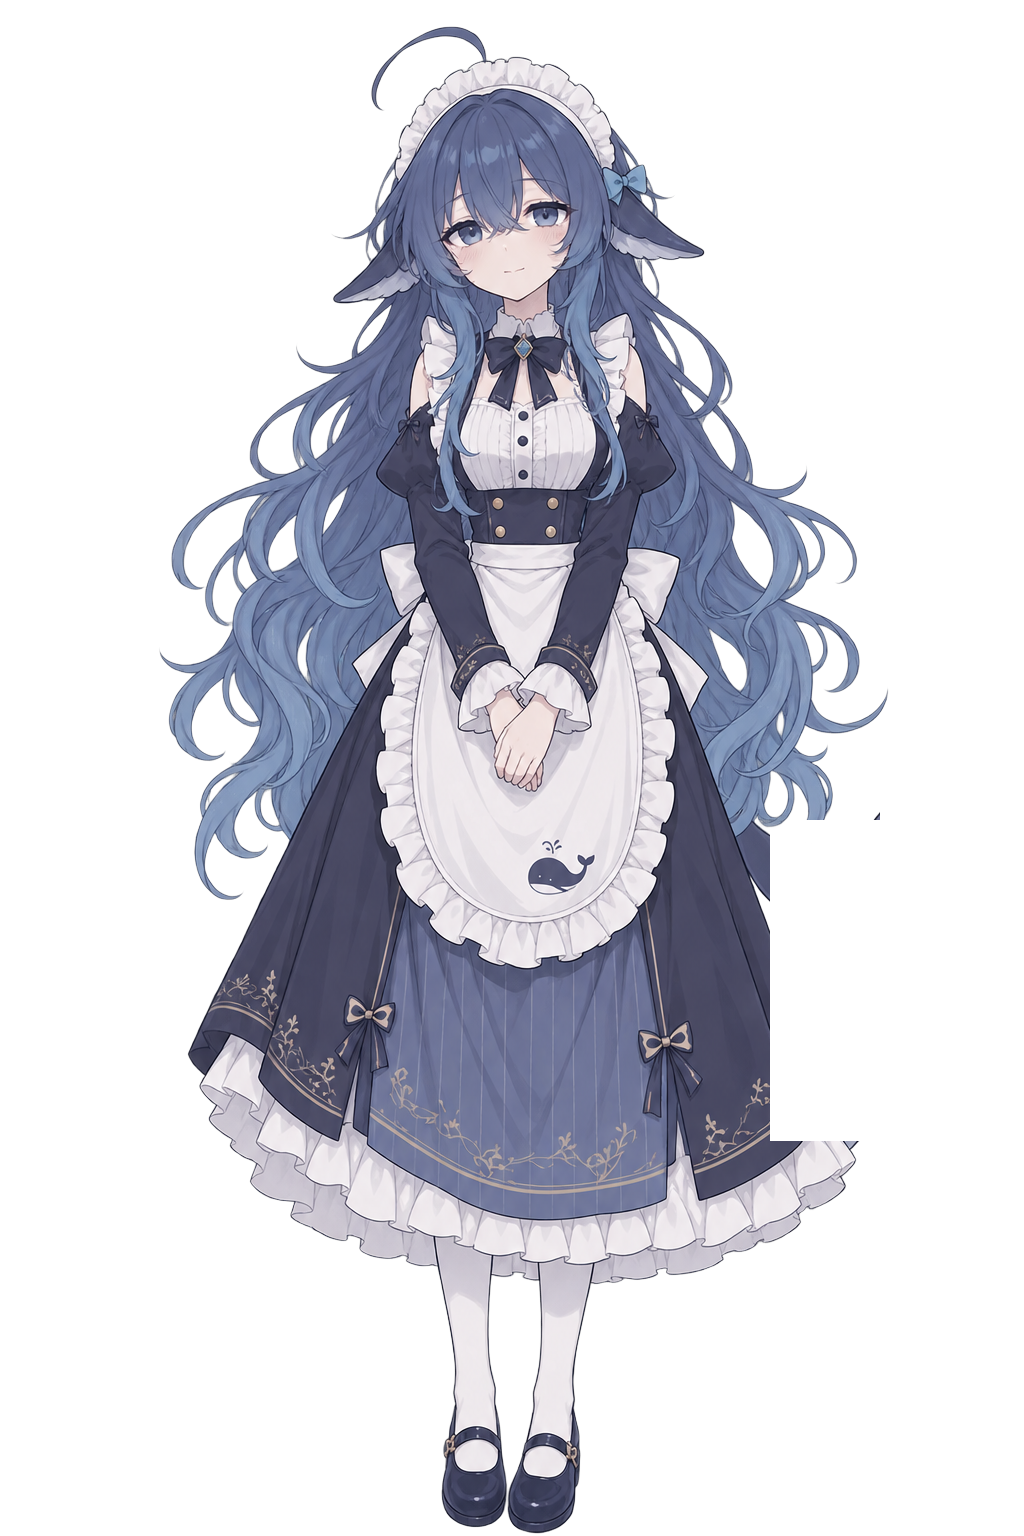
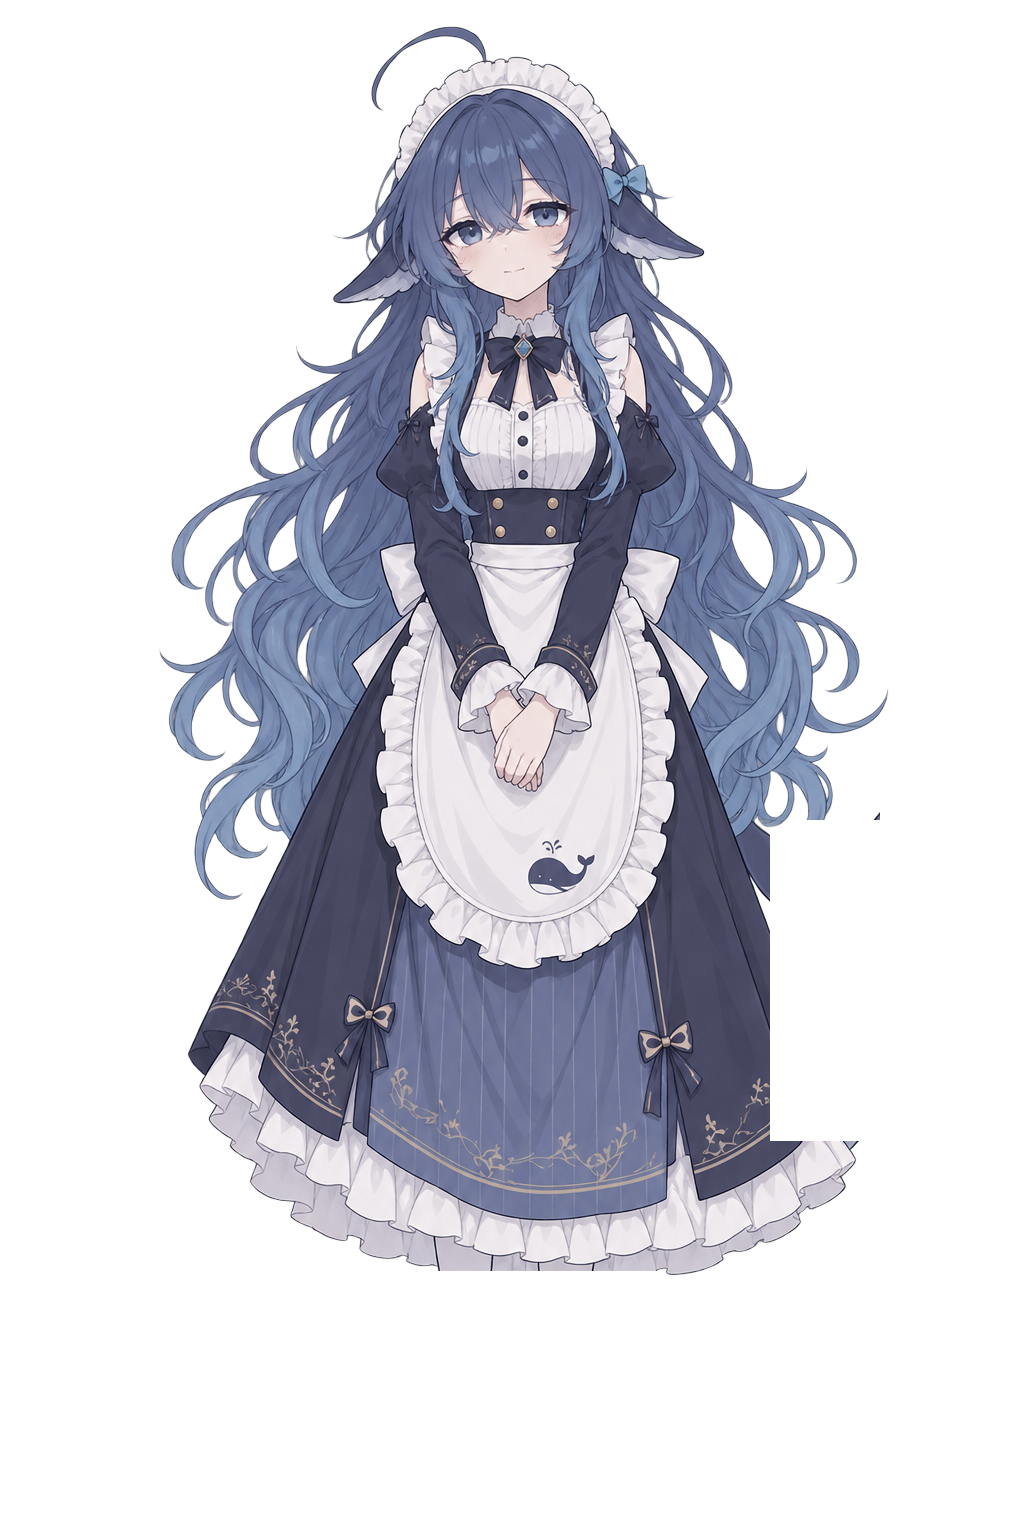
v0.14.1：paper-doll 铺量——六张 neutral 全量切腿，三阶段部件驱动步态就绪
- final/neglected + young×2 + adult×2 双腿 limb 部件（首建 young/adult rig 目录）
- 工艺坑留档：neglected 袜筒上部接触需全腿区高度非对称分墙；adult/healthy 尾尖与右腿在合并行 1127-1130 连通需墙 y<1131（探针步长跳行教训）；young/neglected 真裙摆线 1229 非 1203
- young/adult 尾巴暂缓：尾发 α 逐行粘连需复刻 v0.13 尾件多轮保护带迭代，记已知限制
- trim_part_overlap 泛化 stage 参数；probe_legs 泛化取参探针
- 门禁：五图静止合成内部失配 0.025-0.099% 全 PASS；test_v10 25 通过 0 失败（路由回归）

Changed region(s): [[0.4062, 0.8125, 0.625, 1.0]]

diff --git a/spikes/_qa/probe_sum.py b/spikes/_qa/probe_sum.py
@@ -1,0 +1,65 @@
+"""腿部拓扑汇总器——自动输出 5 张 neutral 的切件取参：
+裙摆底缘（最后一个"窗口横满"行）、双腿 x 区间（中部行）、鞋区是否 α 连通、
+腿底 y。供批量切割定 --seed/--pivot/--block。
+"""
+import os
+
+from PIL import Image
+
+REPO = os.path.dirname(os.path.dirname(os.path.dirname(os.path.abspath(__file__))))
+
+FIGS = [
+    ("final", "neglected"),
+    ("young", "healthy"),
+    ("young", "neglected"),
+    ("adult", "healthy"),
+    ("adult", "neglected"),
+]
+
+for stage, branch in FIGS:
+    im = Image.open(os.path.join(
+        REPO, "assets", "ai", f"{stage}_{branch}_neutral.png")).convert("RGBA")
+    px = im.load()
+    W, H = im.size
+
+    bottom = 0
+    for y in range(H - 1, 0, -1):
+        if any(px[x, y][3] > 0 for x in range(0, W, 2)):
+            bottom = y
+            break
+
+    def runs(y, x0=300, x1=760):
+        out = []
+        cur = None
+        for x in range(x0, x1):
+            on = px[x, y][3] > 0
+            if on and cur is None:
+                cur = x
+            elif not on and cur is not None:
+                out.append((cur, x - 1))
+                cur = None
+        if cur is not None:
+            out.append((cur, x1 - 1))
+        return out
+
+    # 裙摆底缘：最后一个"单段横跨 ≥250px"的行（裙摆整幅），其下即双腿区
+    hem_y = None
+    for y in range(bottom - 1, max(0, bottom - 500), -1):
+        r = runs(y)
+        if len(r) == 1 and r[0][1] - r[0][0] >= 250:
+            hem_y = y
+            break
+    mid = (hem_y + bottom) // 2 if hem_y else bottom - 100
+    rm = runs(mid)
+    # 鞋区连通性：扫 hem→bottom 全部行，记录最少段数
+    min_segs = 99
+    merge_rows = []
+    for y in range(hem_y or 0, bottom + 1):
+        n = len(runs(y))
+        if n < min_segs:
+            min_segs = n
+        if n == 1:
+            merge_rows.append(y)
+    print(f"{stage}/{branch}: bottom={bottom} hem={hem_y} "
+          f"mid={mid} runs@mid={rm} 鞋区最少段数={min_segs}"
+          f"{(' 合并行数=' + str(len(merge_rows)) + ' 首行=' + str(merge_rows[0]) if merge_rows else '')}")

diff --git a/spikes/_qa/probe_legs.py b/spikes/_qa/probe_legs.py
@@ -1,19 +1,27 @@
-"""腿部 α 拓扑探针（v0.14 Phase A）——量出裙摆底缘/双腿间隙/脚底精确坐标。
+"""腿部 α 拓扑探针（v0.14 Phase C 泛化版）——任一 neutral 立绘的取参工具。
 
-对 final_healthy_neutral.png 在腿区窗口内逐行扫描 α>0 的 x 连续段，
-打印关键行与过渡行，供 --seed/--protect/--block 取参。
+用法： python spikes/_qa/probe_legs.py <stage> <branch> [x0 x1 y_top]
+输出： 内容底 y、指定窗口内逐行 α>0 连续段（每 8 行+变化行），
+供 split_parts 的 --seed/--pivot/--block 取参。
 """
 import os
+import sys
+
 from PIL import Image
 
 REPO = os.path.dirname(os.path.dirname(os.path.dirname(os.path.abspath(__file__))))
-im = Image.open(os.path.join(REPO, "assets", "ai", "final_healthy_neutral.png")).convert("RGBA")
+stage, branch = sys.argv[1], sys.argv[2]
+x0, x1 = (int(sys.argv[3]), int(sys.argv[4])) if len(sys.argv) > 4 else (350, 680)
+y_top = int(sys.argv[5]) if len(sys.argv) > 5 else 1100
+
+im = Image.open(os.path.join(REPO, "assets", "ai",
+                             f"{stage}_{branch}_neutral.png")).convert("RGBA")
 print("size:", im.size)
 px = im.load()
 W, H = im.size
 
 
-def runs(y, x0=350, x1=680):
+def runs(y):
     out = []
     cur = None
     for x in range(x0, x1):
@@ -28,7 +36,6 @@ def runs(y, x0=350, x1=680):
     return out
 
 
-# 1) 找整体内容底部（脚底）
 bottom = 0
 for y in range(H - 1, 0, -1):
     if any(px[x, y][3] > 0 for x in range(0, W, 2)):
@@ -36,9 +43,8 @@ for y in range(H - 1, 0, -1):
         break
 print("content bottom y =", bottom)
 
-# 2) 腿区逐行（每 8 行 + 变化行）
 prev = None
-for y in range(1100, min(H, bottom + 4)):
+for y in range(y_top, min(H, bottom + 4)):
     r = runs(y)
     if y % 8 == 0 or r != prev:
         print(f"y={y}: {r}")

diff --git a/spikes/_qa/trim_part_overlap.py b/spikes/_qa/trim_part_overlap.py
@@ -15,11 +15,13 @@ from __future__ import annotations
 
 import json
 import os
+import sys
 
 from PIL import Image, ImageFilter
 
 REPO = os.path.dirname(os.path.dirname(os.path.dirname(os.path.abspath(__file__))))
-STAGE = os.path.join(REPO, "assets", "rig", "final")
+STAGE = os.path.join(REPO, "assets", "rig",
+                     sys.argv[1] if len(sys.argv) > 1 else "final")
 MANIFEST = json.load(open(os.path.join(STAGE, "manifest.json"), encoding="utf-8"))
 
 for part_info in MANIFEST["parts"]:
